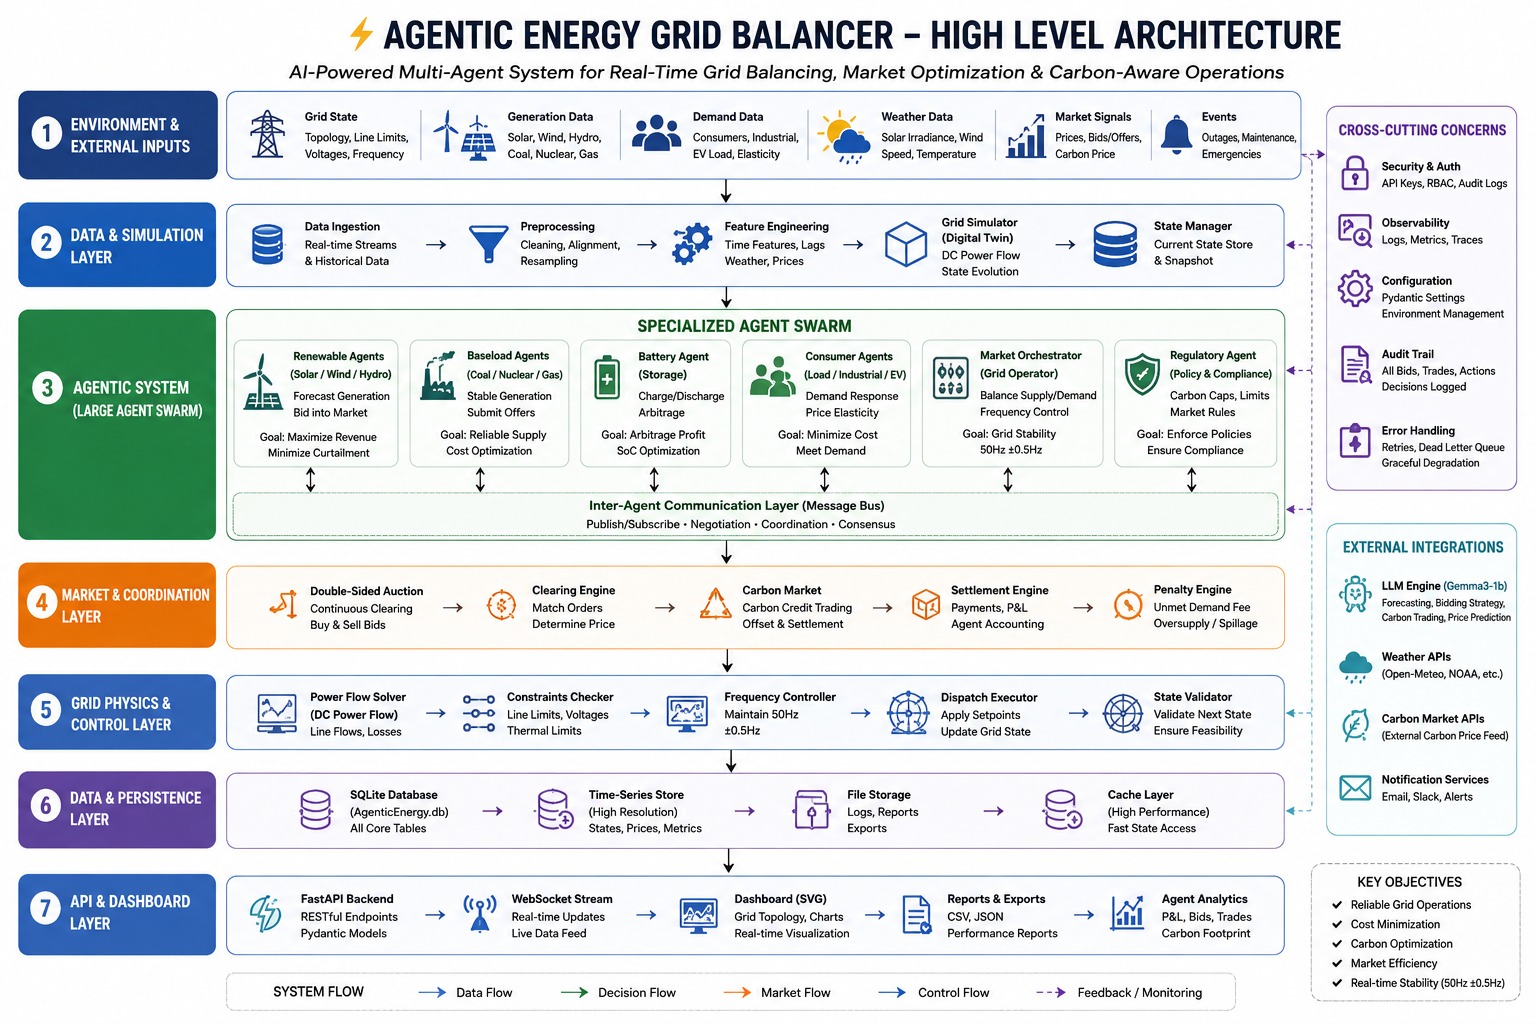
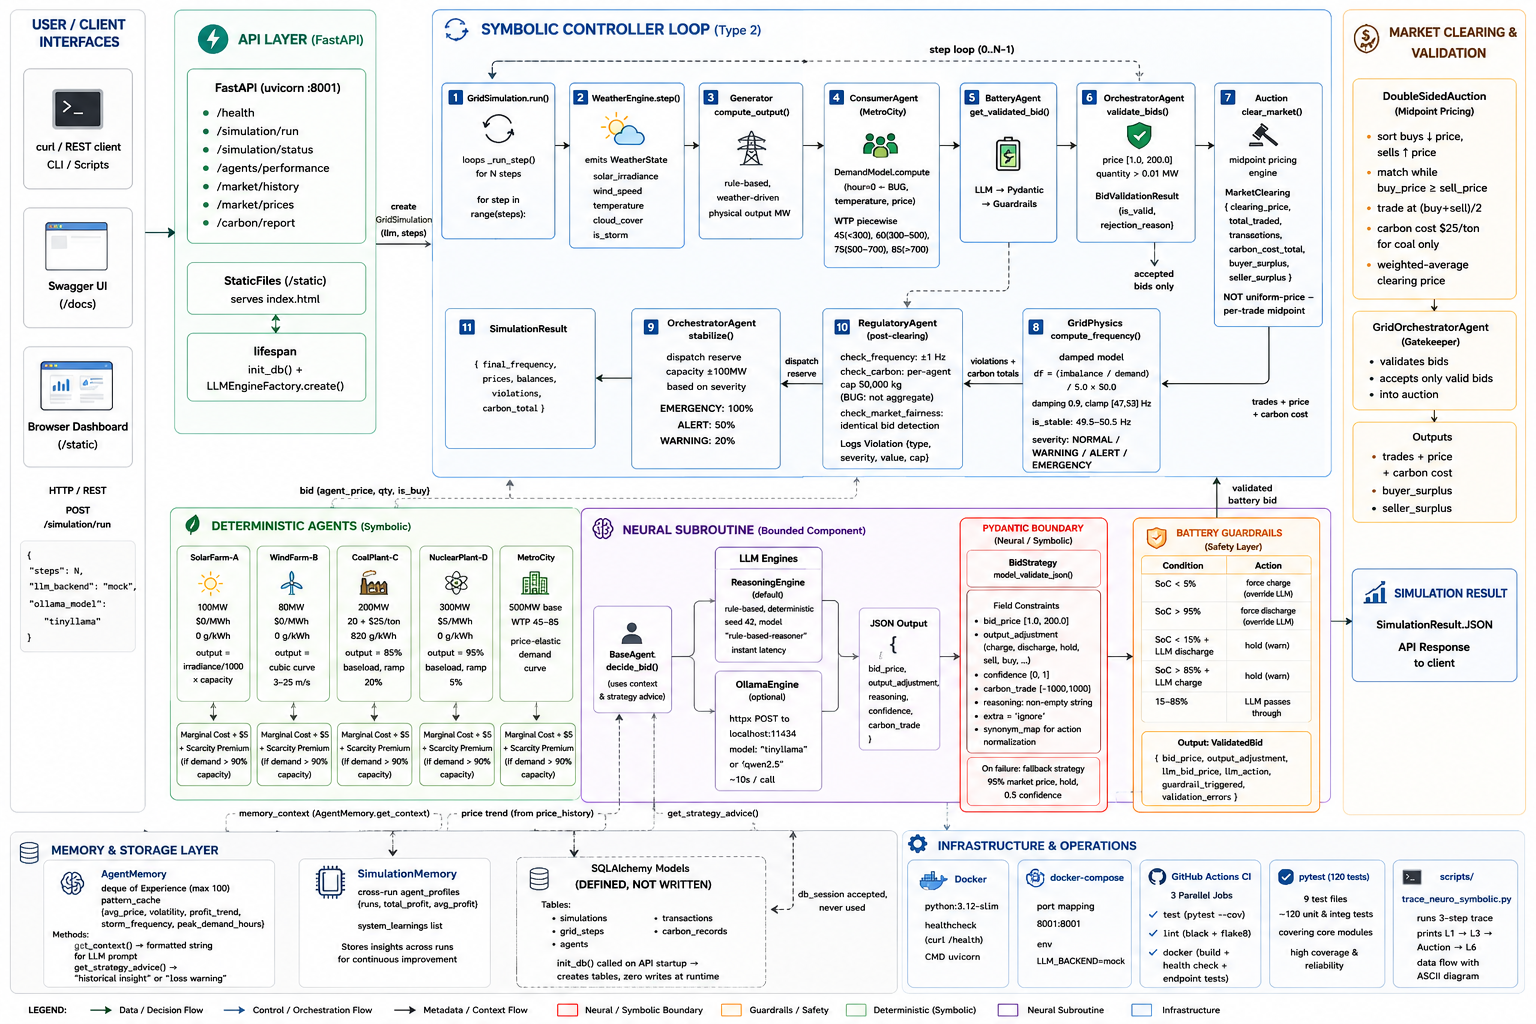
docs: add architecture diagram and image assets

diff --git a/README.md b/README.md
@@ -19,6 +19,10 @@ validates bids, clears the market, computes grid physics, and enforces
 regulatory constraints. A neural subroutine (battery LLM) proposes arbitrage
 strategies — bounded by Pydantic validation and physical guardrails.
 
+<p align="center">
+  <img src="assets/arch_draft.png" alt="Architecture Diagram" width="800">
+</p>
+
 ---
 
 ## Type 2 Architecture — Why This Qualifies